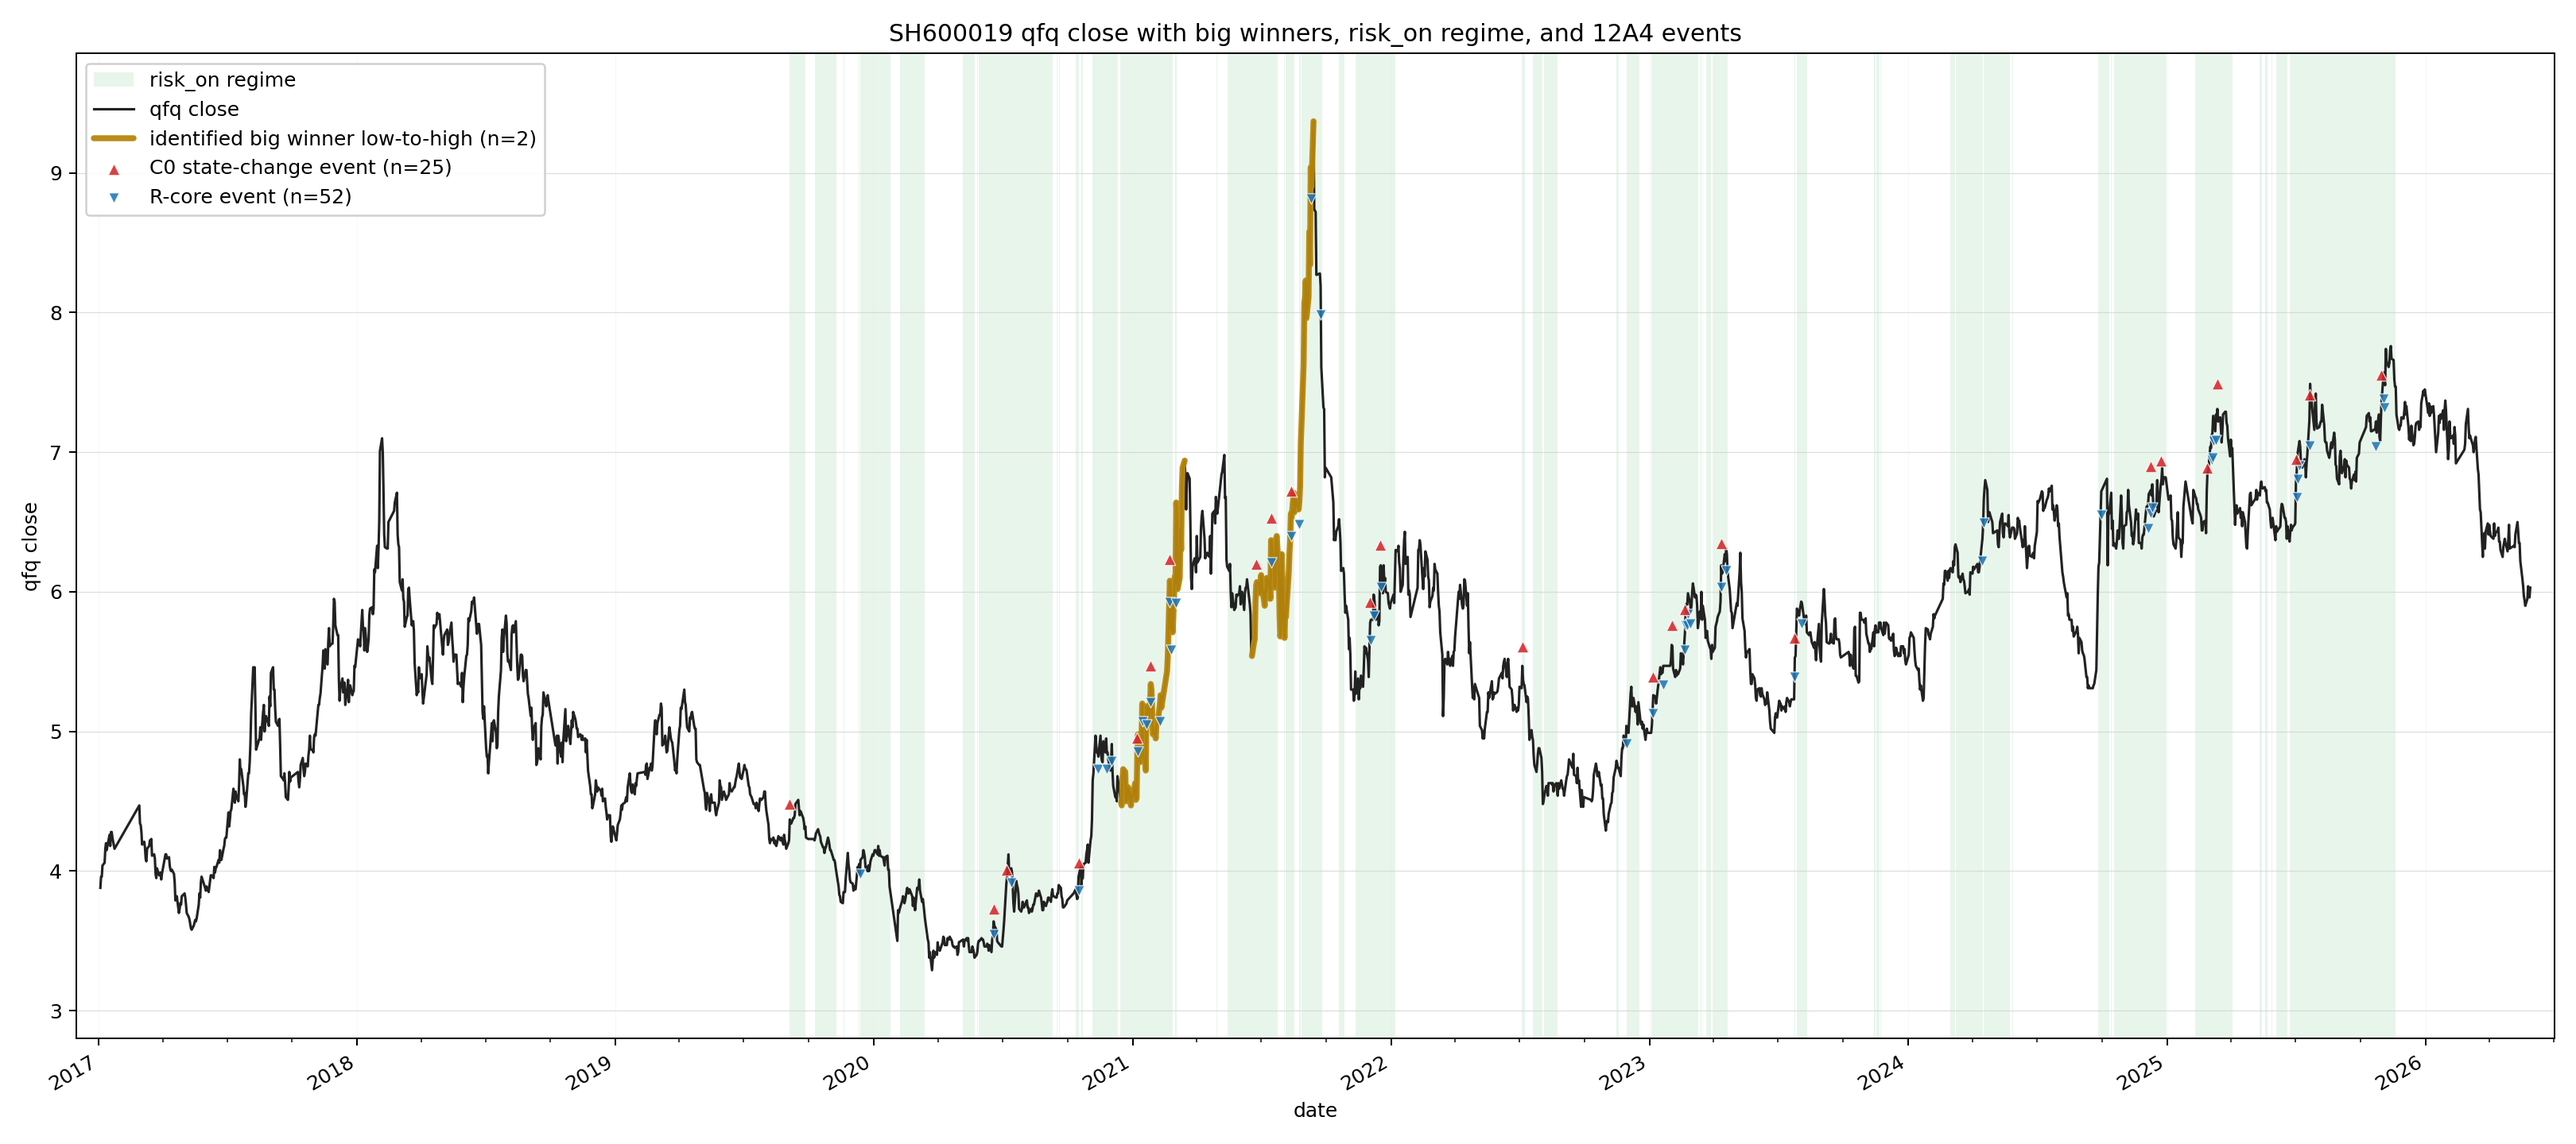
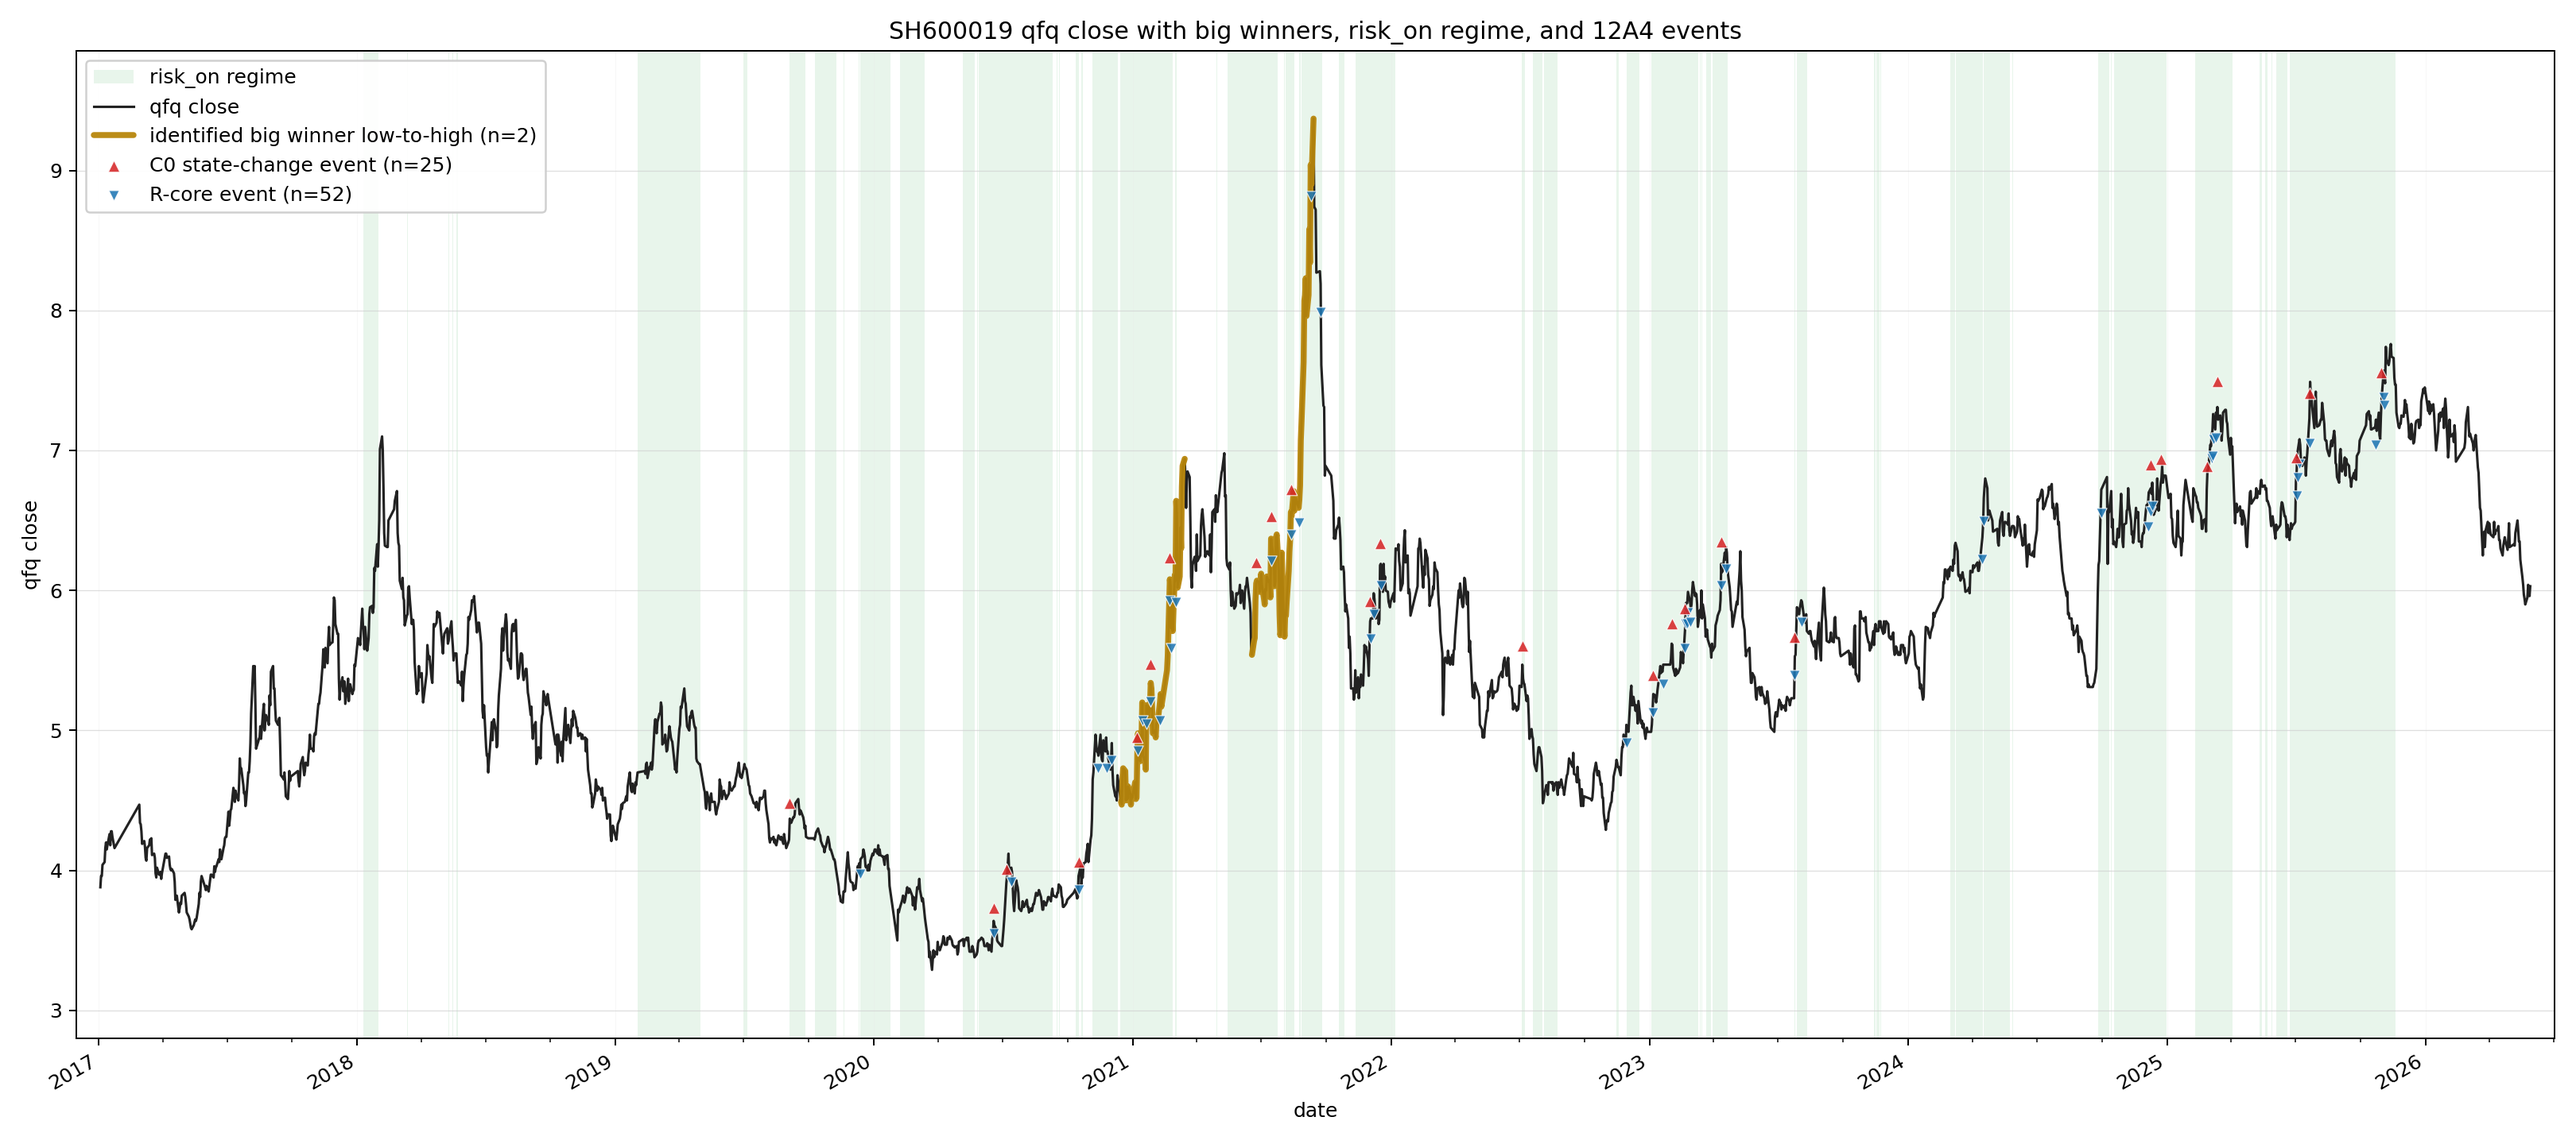
Fix symbol timeline risk-on calendar

diff --git a/topics/02_AFML_BIG_WINNER/experiments/pending/12_multi_k_winner_failure_path_morphology_research_v0/src/plot_symbol_trend_events.py b/topics/02_AFML_BIG_WINNER/experiments/pending/12_multi_k_winner_failure_path_morphology_research_v0/src/plot_symbol_trend_events.py
@@ -163,13 +163,23 @@ def read_price(price_dir: Path, instrument: str) -> pd.DataFrame:
     return out[["date", "close"]].reset_index(drop=True)
 
 
-def read_panel(panel_path: Path, instrument: str) -> pd.DataFrame:
+def read_regime_calendar(panel_path: Path) -> pd.DataFrame:
     columns = ["date", "instrument", "market_regime_bucket"]
     frame = pd.read_parquet(panel_path, columns=columns)
-    out = frame.loc[frame["instrument"].astype(str).eq(instrument)].copy()
+    out = frame.copy()
     out["date"] = pd.to_datetime(out["date"], errors="coerce")
-    out = out.dropna(subset=["date"]).sort_values("date").drop_duplicates("date", keep="last")
+    out = out.dropna(subset=["date", "market_regime_bucket"])
+    per_date_regime_n = out.groupby("date")["market_regime_bucket"].nunique(dropna=True)
+    conflict_dates = per_date_regime_n.loc[per_date_regime_n.gt(1)]
+    if not conflict_dates.empty:
+        sample_dates = [str(x.date()) for x in conflict_dates.index[:5]]
+        raise ValueError(f"Market regime is not unique by date; sample conflict dates: {sample_dates}")
+    out = out.sort_values("date").drop_duplicates("date", keep="last")
     return out[["date", "market_regime_bucket"]].reset_index(drop=True)
+
+
+def read_panel(panel_path: Path, instrument: str) -> pd.DataFrame:
+    return read_regime_calendar(panel_path)
 
 
 def read_events(event_path: Path, instrument: str) -> pd.DataFrame:
@@ -345,7 +355,7 @@ def main(argv: list[str] | None = None) -> int:
     output_path = topic_path(args.output) if args.output else default_output_path(instrument)
 
     price = read_price(price_dir, instrument)
-    panel = read_panel(panel_path, instrument)
+    regime_calendar = read_regime_calendar(panel_path)
     episodes = read_big_winner_episodes(episode_path, instrument)
     events = read_events(event_path, instrument)
     plotted_events = event_points(events, price)
@@ -353,7 +363,7 @@ def main(argv: list[str] | None = None) -> int:
     plot_symbol(
         instrument,
         price,
-        panel,
+        regime_calendar,
         episodes,
         events,
         output_path,
@@ -365,7 +375,10 @@ def main(argv: list[str] | None = None) -> int:
 
     print(f"instrument={instrument}")
     print(f"price_rows={len(price)} date_range={price['date'].min().date()}..{price['date'].max().date()}")
-    print(f"panel_rows={len(panel)} risk_on_segments={len(risk_on_segments(panel, price['date'].min(), price['date'].max()))}")
+    print(
+        f"regime_calendar_rows={len(regime_calendar)} "
+        f"risk_on_segments={len(risk_on_segments(regime_calendar, price['date'].min(), price['date'].max()))}"
+    )
     print(f"big_winner_episode_n={len(episodes)}")
     print(f"c0_event_n={summary['c0_event_n']} r_core_event_n={summary['r_core_event_n']} total_event_n={summary['total_event_n']}")
     print(f"output={output_path}")

diff --git a/topics/02_AFML_BIG_WINNER/experiments/pending/12_multi_k_winner_failure_path_morphology_research_v0/tests/test_plot_symbol_trend_events.py b/topics/02_AFML_BIG_WINNER/experiments/pending/12_multi_k_winner_failure_path_morphology_research_v0/tests/test_plot_symbol_trend_events.py
@@ -45,6 +45,51 @@ def test_risk_on_segments_split_on_non_risk_on_rows():
     ]
 
 
+def test_read_regime_calendar_uses_market_wide_dates_not_instrument_scope(tmp_path):
+    tool = load_tool()
+    panel_path = tmp_path / "panel.parquet"
+    pd.DataFrame(
+        {
+            "date": pd.to_datetime(
+                [
+                    "2024-01-02",
+                    "2024-01-02",
+                    "2024-01-03",
+                    "2024-01-04",
+                ]
+            ),
+            "instrument": ["SH600000", "SZ300750", "SH600000", "SZ300750"],
+            "market_regime_bucket": ["risk_on", "risk_on", "risk_off", "risk_on"],
+        }
+    ).to_parquet(panel_path, index=False)
+
+    calendar = tool.read_regime_calendar(panel_path)
+    legacy_calendar = tool.read_panel(panel_path, "SH600000")
+
+    assert calendar["date"].tolist() == list(pd.to_datetime(["2024-01-02", "2024-01-03", "2024-01-04"]))
+    assert calendar["market_regime_bucket"].tolist() == ["risk_on", "risk_off", "risk_on"]
+    pd.testing.assert_frame_equal(calendar, legacy_calendar)
+
+
+def test_read_regime_calendar_rejects_date_level_regime_conflicts(tmp_path):
+    tool = load_tool()
+    panel_path = tmp_path / "panel.parquet"
+    pd.DataFrame(
+        {
+            "date": pd.to_datetime(["2024-01-02", "2024-01-02"]),
+            "instrument": ["SH600000", "SZ300750"],
+            "market_regime_bucket": ["risk_on", "risk_off"],
+        }
+    ).to_parquet(panel_path, index=False)
+
+    try:
+        tool.read_regime_calendar(panel_path)
+    except ValueError as exc:
+        assert "Market regime is not unique by date" in str(exc)
+    else:
+        raise AssertionError("expected date-level regime conflict to fail")
+
+
 def test_event_points_maps_event_dates_to_qfq_close():
     tool = load_tool()
     price = pd.DataFrame(
